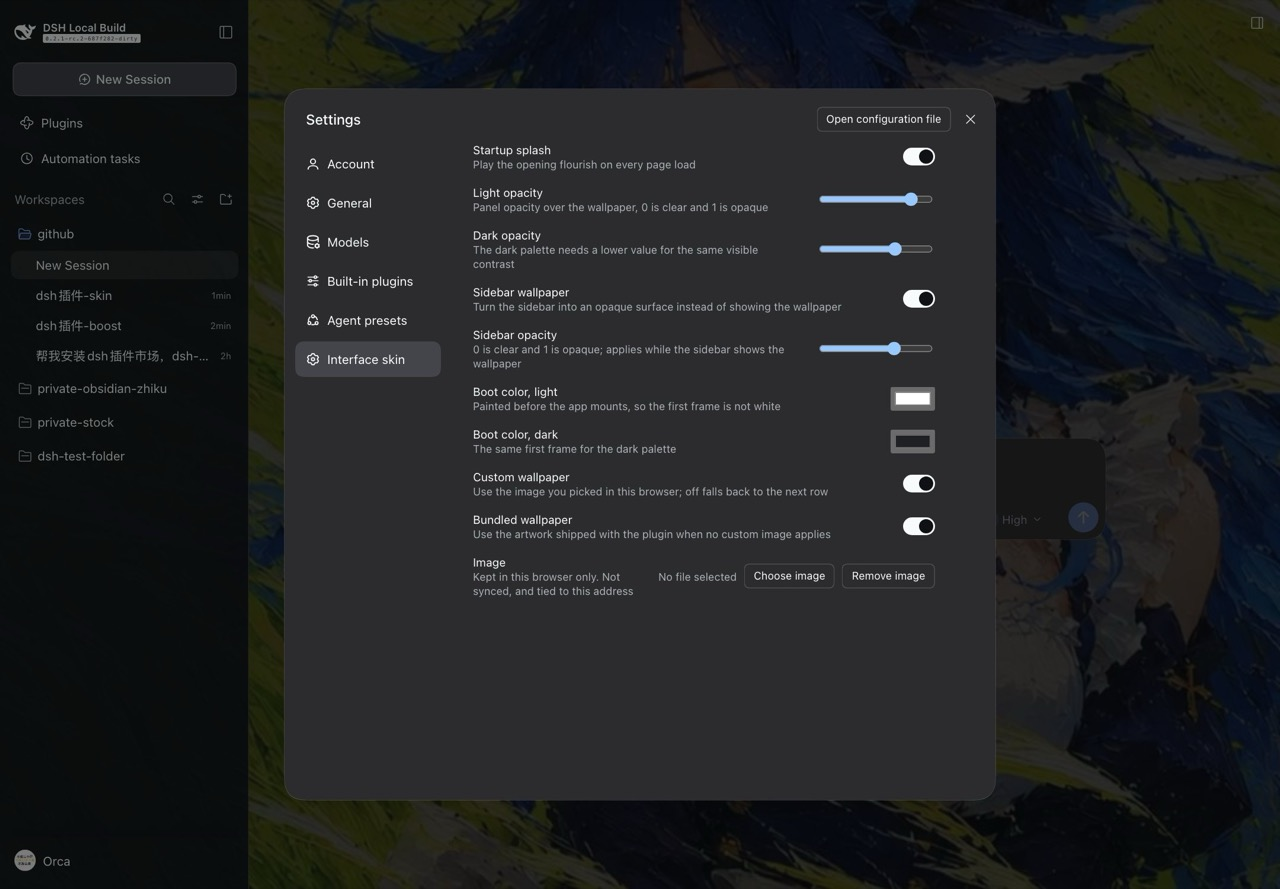
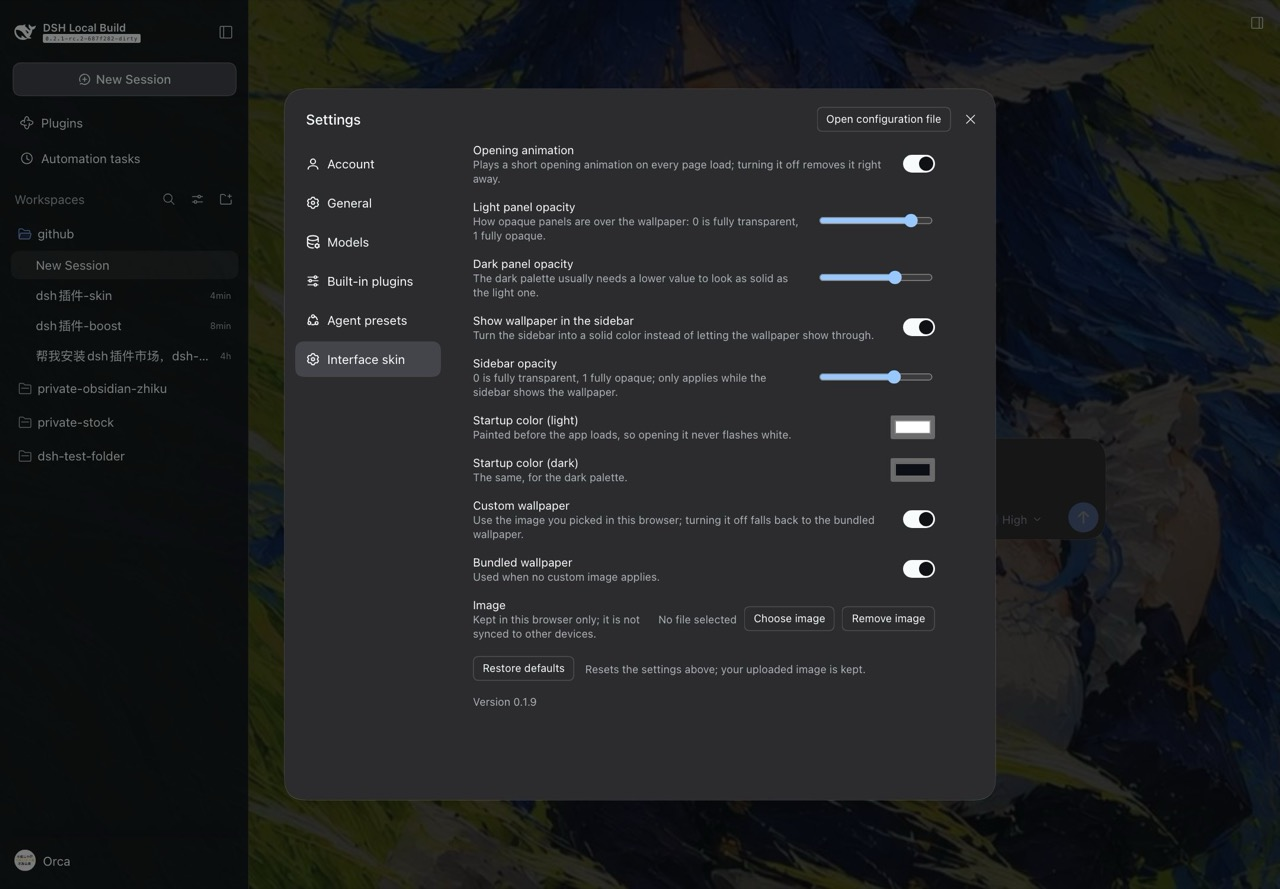
docs(shell-skin): rewrite the copy for end users
Drop internal vocabulary (browser half, slot names) from the card, the
settings page, and the README, and settle on one wording per concept:
opening animation, sidebar, panel opacity. Refresh both settings shots.

Changed region(s): [[0.375, 0.1519, 0.75, 0.7593], [0.5938, 0.6378, 0.75, 0.6985], [0.4688, 0.7289, 0.6562, 0.7593]]

diff --git a/src/client/locales.ts b/src/client/locales.ts
@@ -1,48 +1,51 @@
 /**
  * `shellSkin` namespace dictionaries. The Chinese map is the key-set source of
  * truth; the English map must cover exactly the same keys.
+ *
+ * House style for both languages: describe what the user sees, not how the
+ * plugin is built. No host/client jargon, no "half", no slot names.
  */
 
 /** Simplified Chinese copy. */
 export const zh = {
   'nav': '界面皮肤',
-  'splash.title': '启动动画',
-  'splash.description': '每次打开页面时播放入场动画；关闭会立即移除',
-  'lightOpacity.title': '浅色透明度',
-  'lightOpacity.description': '面板叠在壁纸上的不透明度，0 为全透明，1 为不透明',
-  'darkOpacity.title': '深色透明度',
-  'darkOpacity.description': '深色配色需要更低的值才能获得同样的可见对比',
-  'bootLight.title': '启动底色（浅色）',
-  'bootLight.description': '应用挂载前绘制的颜色，避免首帧发白',
-  'bootDark.title': '启动底色（深色）',
-  'bootDark.description': '深色配色下的首帧底色',
+  'splash.title': '开场动画',
+  'splash.description': '每次打开页面时播放一小段开场动画；关闭会立刻移除。',
+  'lightOpacity.title': '浅色面板透明度',
+  'lightOpacity.description': '面板覆盖在壁纸上的不透明度：0 完全透明，1 完全不透明。',
+  'darkOpacity.title': '深色面板透明度',
+  'darkOpacity.description': '深色配色通常需要更低的值，看起来才和浅色接近。',
+  'bootLight.title': '启动时的底色（浅色）',
+  'bootLight.description': '应用加载前先铺上的颜色，避免打开瞬间闪白。',
+  'bootDark.title': '启动时的底色（深色）',
+  'bootDark.description': '深色配色下同样如此。',
   'sidebarWallpaper.title': '侧边栏显示壁纸',
-  'sidebarWallpaper.description': '关闭后侧栏变为不透明纯色，不再透出壁纸',
+  'sidebarWallpaper.description': '关闭后侧边栏变成不透明纯色，不再透出壁纸。',
   'sidebarOpacity.title': '侧边栏透明度',
-  'sidebarOpacity.description': '0 为全透明，1 为不透明；仅在侧栏显示壁纸时生效',
+  'sidebarOpacity.description': '0 完全透明，1 完全不透明；仅在侧边栏显示壁纸时生效。',
   'custom.title': '自定义壁纸',
-  'custom.description': '使用你在本浏览器中选择的图片；关闭后回落到下一项',
+  'custom.description': '使用你在这台浏览器里选择的图片；关闭后改用内置壁纸。',
   'bundled.title': '内置壁纸',
-  'bundled.description': '没有可用的自定义图片时，使用插件自带的壁纸',
+  'bundled.description': '没有自定义图片时，使用插件自带的壁纸。',
   'image.title': '图片',
-  'image.description': '仅保存在本浏览器，不跨设备同步，且与当前地址绑定',
+  'image.description': '只保存在这台浏览器里，不会同步到其他设备。',
   'image.choose': '选择图片',
   'image.none': '未选择文件',
   'image.selected': '已选择',
   'image.saved': '已保存的图片',
   'image.remove': '移除图片',
-  'image.errorType': '请选择图片文件',
-  'image.errorStore': '无法保存这张图片',
-  'image.errorTooLarge': '图片不能超过 10 MB',
-  'image.errorUnavailable': '当前浏览器不允许保存图片（可能处于隐私模式）',
-  'image.unavailable': '此浏览器无法保存图片，仅能使用内置壁纸',
+  'image.errorType': '请选择图片文件。',
+  'image.errorStore': '无法保存这张图片。',
+  'image.errorTooLarge': '图片大小不能超过 10 MB。',
+  'image.errorUnavailable': '当前浏览器不允许保存图片，可能正处于隐私模式。',
+  'image.errorClear': '无法移除这张图片。',
+  'image.unavailable': '这台浏览器无法保存图片，只能使用内置壁纸。',
   'reset.label': '恢复默认',
-  'reset.hint': '只重置上面的设置项，不删除已上传的图片',
+  'reset.hint': '只重置上面的设置，不会删除已上传的图片。',
   'version.label': '版本',
-  'image.errorClear': '无法清除这张图片',
-  'profile.locked': '当前 profile 不接受设置修改',
-  'summary.splashOn': '动画开',
-  'summary.splashOff': '动画关',
+  'profile.locked': '当前配置为只读，无法在这里修改。',
+  'summary.splashOn': '开场动画开',
+  'summary.splashOff': '开场动画关',
   'summary.light': '浅色',
   'summary.dark': '深色',
 } satisfies Record<string, string>
@@ -53,43 +56,43 @@ export type SkinKey = keyof typeof zh
 /** English copy, checked complete against the Chinese key set. */
 export const en: Record<SkinKey, string> = {
   'nav': 'Interface skin',
-  'splash.title': 'Startup splash',
-  'splash.description': 'Play the opening flourish on every page load; turning it off removes it now',
-  'lightOpacity.title': 'Light opacity',
-  'lightOpacity.description': 'Panel opacity over the wallpaper, 0 is clear and 1 is opaque',
-  'darkOpacity.title': 'Dark opacity',
-  'darkOpacity.description': 'The dark palette needs a lower value for the same visible contrast',
-  'bootLight.title': 'Boot color, light',
-  'bootLight.description': 'Painted before the app mounts, so the first frame is not white',
-  'bootDark.title': 'Boot color, dark',
-  'bootDark.description': 'The same first frame for the dark palette',
-  'sidebarWallpaper.title': 'Sidebar wallpaper',
-  'sidebarWallpaper.description': 'Turn the sidebar into an opaque surface instead of showing the wallpaper',
+  'splash.title': 'Opening animation',
+  'splash.description': 'Plays a short opening animation on every page load; turning it off removes it right away.',
+  'lightOpacity.title': 'Light panel opacity',
+  'lightOpacity.description': 'How opaque panels are over the wallpaper: 0 is fully transparent, 1 fully opaque.',
+  'darkOpacity.title': 'Dark panel opacity',
+  'darkOpacity.description': 'The dark palette usually needs a lower value to look as solid as the light one.',
+  'bootLight.title': 'Startup color (light)',
+  'bootLight.description': 'Painted before the app loads, so opening it never flashes white.',
+  'bootDark.title': 'Startup color (dark)',
+  'bootDark.description': 'The same, for the dark palette.',
+  'sidebarWallpaper.title': 'Show wallpaper in the sidebar',
+  'sidebarWallpaper.description': 'Turn the sidebar into a solid color instead of letting the wallpaper show through.',
   'sidebarOpacity.title': 'Sidebar opacity',
-  'sidebarOpacity.description': '0 is clear and 1 is opaque; applies while the sidebar shows the wallpaper',
+  'sidebarOpacity.description': '0 is fully transparent, 1 fully opaque; only applies while the sidebar shows the wallpaper.',
   'custom.title': 'Custom wallpaper',
-  'custom.description': 'Use the image you picked in this browser; off falls back to the next row',
+  'custom.description': 'Use the image you picked in this browser; turning it off falls back to the bundled wallpaper.',
   'bundled.title': 'Bundled wallpaper',
-  'bundled.description': 'Use the artwork shipped with the plugin when no custom image applies',
+  'bundled.description': 'Used when no custom image applies.',
   'image.title': 'Image',
-  'image.description': 'Kept in this browser only. Not synced, and tied to this address',
+  'image.description': 'Kept in this browser only; it is not synced to other devices.',
   'image.choose': 'Choose image',
   'image.none': 'No file selected',
   'image.selected': 'Selected',
   'image.saved': 'Saved image',
   'image.remove': 'Remove image',
-  'image.errorType': 'Choose an image file',
-  'image.errorStore': 'Could not store that image',
-  'image.errorTooLarge': 'The image must be 10 MB or smaller',
-  'image.errorUnavailable': 'This browser does not allow storing images (private mode?)',
-  'image.unavailable': 'This browser cannot store images; only the bundled wallpaper is available',
+  'image.errorType': 'Choose an image file.',
+  'image.errorStore': 'Could not save that image.',
+  'image.errorTooLarge': 'The image must be 10 MB or smaller.',
+  'image.errorUnavailable': 'This browser does not allow saving images; it may be in private mode.',
+  'image.errorClear': 'Could not remove that image.',
+  'image.unavailable': 'This browser cannot save images, so only the bundled wallpaper is available.',
   'reset.label': 'Restore defaults',
-  'reset.hint': 'Resets the settings above; the uploaded image is kept',
+  'reset.hint': 'Resets the settings above; your uploaded image is kept.',
   'version.label': 'Version',
-  'image.errorClear': 'Could not clear that image',
-  'profile.locked': 'This profile does not accept settings edits',
-  'summary.splashOn': 'splash on',
-  'summary.splashOff': 'splash off',
+  'profile.locked': 'This configuration is read-only.',
+  'summary.splashOn': 'animation on',
+  'summary.splashOff': 'animation off',
   'summary.light': 'light',
   'summary.dark': 'dark',
 }

diff --git a/README.md b/README.md
@@ -7,11 +7,11 @@
   <a href="LICENSE"><img alt="license" src="https://img.shields.io/github/license/raven3005672/dsh-plugin-shell-skin?color=orange"></a>
 </p>
 
-给 [DeepSeek Harness](https://github.com/deepseek-ai/deepseek-harness) 换一层壳：**开场动画、壁纸、面板透明度**，一个设置页全管。
+给 [DeepSeek Harness](https://github.com/deepseek-ai/deepseek-harness) 换一层外观：**开场动画、壁纸、面板透明度**，一个设置页全管。
 
-全部逻辑跑在**浏览器半边**，不碰会话、模型请求、工具，也不读写你的文件系统。
+所有效果都在页面里完成，不碰会话、模型请求，也不读写你的文件系统。
 
-> 名字里的 **shell 指应用外壳（app shell）**，不是侧栏里的终端；这个插件给整个界面换壁纸和外观，不修改终端配色。
+> 名字里的 **shell 指应用外壳（app shell）**，不是侧边栏里的终端；这个插件给整个界面换壁纸和外观，不修改终端配色。
 
 <p align="center">
   <img src="https://raw.githubusercontent.com/raven3005672/dsh-plugin-shell-skin/master/assets/preview/home-light.jpg" width="880" alt="浅色主题：壁纸透过半透明面板">
@@ -21,11 +21,11 @@
 
 | 功能 | 说明 |
 |---|---|
-| **开场动画** | 页面加载时播放一段约 1.5 秒的入场动画，然后淡出；尊重 `prefers-reduced-motion` |
+| **开场动画** | 页面加载时播放一段约 1.5 秒的动画，然后淡出；系统开启“减少动态效果”时自动跳过 |
 | **壁纸** | 自带一张，也可以选你自己电脑里的图片，只存在浏览器里 |
-| **面板透明度** | 分别控制浅色 / 深色下侧栏和面板的透明度，拖动时实时预览 |
-| **首帧底色** | 应用挂载前先刷上底色，避免启动瞬间闪白 |
-| **设置页** | 集成在插件配置页里，所有项即时生效（开关除外，见下方限制） |
+| **面板透明度** | 分别控制浅色 / 深色下侧边栏和面板的透明度，拖动时实时预览 |
+| **启动时的底色** | 应用加载前先铺上颜色，避免打开瞬间闪白 |
+| **设置页** | 在「设置 → 界面皮肤」里，所有项即时生效 |
 | **中英文** | 跟随 DSH 的语言设置，设置页文案与插件卡片都会切换 |
 
 ## 安装
@@ -57,7 +57,7 @@ dsh plugin --profile web add "file:$PWD"
 ## 开场动画
 
 <p align="center">
-  <img src="https://raw.githubusercontent.com/raven3005672/dsh-plugin-shell-skin/master/assets/preview/splash.jpg" width="880" alt="启动动画">
+  <img src="https://raw.githubusercontent.com/raven3005672/dsh-plugin-shell-skin/master/assets/preview/splash.jpg" width="880" alt="开场动画">
 </p>
 
 三段式：底环呼吸 → 标识亮起 → 整层淡出。可以在设置里关掉，但**关闭要刷新一次页面**才生效——它改变的是插槽注册，不是纯样式。
@@ -92,10 +92,10 @@ dsh plugin --profile web add "file:$PWD"
 | 设置项 | 何时生效 |
 |---|---|
 | 开场动画 | 即时（关闭会立刻移除当前动画） |
-| 浅色 / 深色透明度 | 拖动时实时预览，松手保存 |
+| 浅色 / 深色面板透明度 | 拖动时实时预览，松手保存 |
 | 侧边栏显示壁纸 | 即时 |
 | 侧边栏透明度 | 拖动时实时预览，松手保存（两种配色共用） |
-| 首帧底色（浅色 / 深色） | 即时 |
+| 启动时的底色（浅色 / 深色） | 即时 |
 | 自定义壁纸 / 内置壁纸 | 即时 |
 | 图片 | 选中并存入浏览器后即时；仅接受图片，上限 10 MB |
 | 恢复默认 | 即时重置上面所有设置项（不删除已上传的图片） |
@@ -112,16 +112,16 @@ dsh plugin --profile web add "file:$PWD"
 
 在 Electron 桌面应用里同样生效，但有两处观感差异：
 
-- macOS 的侧栏有官方的 vibrancy 混合规则，会把面板透明度再乘一次，所以壁纸在侧栏里更透；
+- macOS 的侧边栏用系统毛玻璃效果，会把面板透明度再乘一次，所以壁纸在侧边栏里更透；
 - 桌面端 `body` 本来是透明的（让原生毛玻璃透出来），铺上壁纸后这层毛玻璃就被盖住了。
 
-另外，上传的图片按 origin 隔离，Web 和桌面端不会共享。
+另外，上传的图片按浏览器地址隔离，Web 和桌面端不会共享。
 
 ## 已知限制
 
-- **开场动画开关不即时**：它控制 `shell.overlay` 的注册，改动后需要刷新；
+- 开场动画只在页面加载时播放一次，不会在切换设置时重复播放；
 - 深色面板默认 0.55、浅色 0.85，想更透可以自己调；
-- 壁纸按 `cover` 铺满，极端长宽比会被裁切（暂不支持平铺 / 居中等模式）。
+- 壁纸按比例铺满窗口，极端长宽比的图片会被裁切（暂不支持平铺或居中）。
 
 ## 开发
 
@@ -138,7 +138,7 @@ pnpm smoke        # 不启浏览器，加载 client bundle 并断言注册行为
 pnpm dsh web --patch ../dsh-plugin-shell-skin/dev.patch.yml
 ```
 
-改了 client 半边刷新页面即可；改了 host 半边或 overlay 需要重启。
+改了前端代码刷新页面即可；改了后端代码或调试用的挂载配置需要重启。
 
 写新插件时的完整检查清单见 [docs/PLUGIN_PLAYBOOK.md](docs/PLUGIN_PLAYBOOK.md)。
 

diff --git a/CHANGELOG.md b/CHANGELOG.md
@@ -5,6 +5,8 @@
 ### 变更
 
 - 插件图标换成角色立绘 PNG（256×256，白底已做透明处理）。
+- 全面改写中英文文案：去掉“半边”等内部说法，统一用「开场动画 / 侧边栏 / 面板透明度」，每一项说明改成描述用户看到的效果。
+- 插件卡片的描述改为功能导向：「开场动画、自定义壁纸、面板透明度，改完立即生效」。
 
 ## [0.1.8] - 2026-10-21
 
